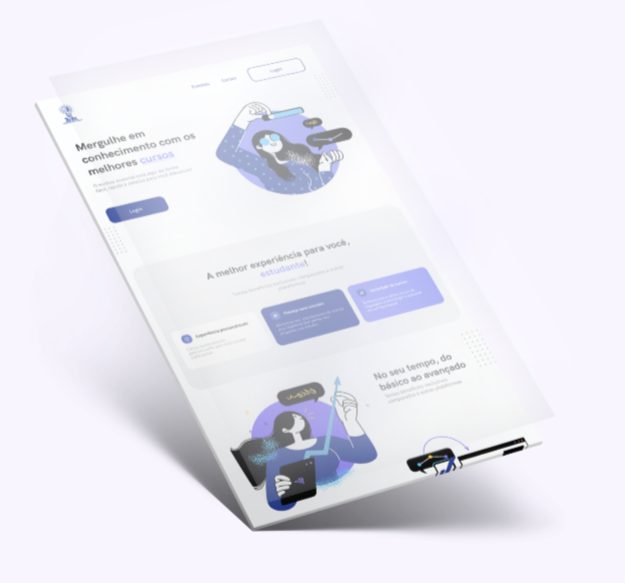
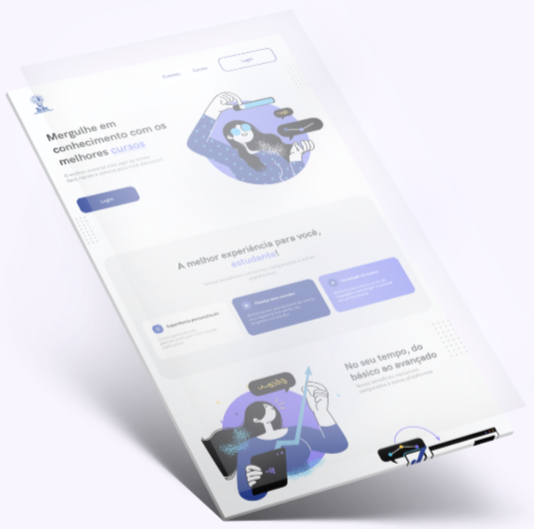
update

diff --git a/src/components/Features/LadingPage/guide/Guide.tsx b/src/components/Features/LadingPage/guide/Guide.tsx
@@ -12,7 +12,7 @@ const Guide = () => {
       <div className="flex-container">
         <div className="flex-item">
           <div className="icon">
-            <img src={images.icon} alt="" />
+            <img src={images.dispositivo} alt="" />
           </div>
           <h3>Personalização</h3>
           <p>
@@ -22,7 +22,7 @@ const Guide = () => {
         </div>
         <div className="flex-item">
           <div className="icon">
-            <img src={images.icon} alt="" />
+            <img src={images.tecnologia} alt="" />
           </div>
           <h3>Tecnologia</h3>
           <p>
@@ -32,14 +32,14 @@ const Guide = () => {
         </div>
         <div className="flex-item">
           <div className="icon">
-            <img src={images.icon} alt="" />
+            <img src={images.encriptacao} alt="" />
           </div>
           <h3>Segurança</h3>
           <p>Todos seus dados e conteúdos protegidos.</p>
         </div>
         <div className="flex-item">
           <div className="icon">
-            <img src={images.icon} alt="" />
+            <img src={images.ux} alt="" />
           </div>
           <h3>User Experience</h3>
           <p>
@@ -49,14 +49,14 @@ const Guide = () => {
         </div>
         <div className="flex-item">
           <div className="icon">
-            <img src={images.icon} alt="" />
+            <img src={images.relatorio} alt="" />
           </div>
           <h3>Relatórios</h3>
           <p>Plataformas estáveis para o sucesso do seu negócio.</p>
         </div>
         <div className="flex-item">
           <div className="icon">
-            <img src={images.icon} alt="" />
+            <img src={images.fone} alt="" />
           </div>
           <h3>Suporte</h3>
           <p>

diff --git a/src/assets/index.ts b/src/assets/index.ts
@@ -4,13 +4,14 @@ const images = {
   heroComputer: require("./images/computer-illustration.png"),
   icon: require("./images/130258.png"),
   servicesBanner: require("./images/services-img.png"),
-  check: require("./images/check.png"),
   platformImage: require("./images/platform-image.png"),
-  phone: require("./images/phone.png"),
   map: require("./images/map.png"),
-  insta: require("./images/instagram.svg"),
-  linkedin: require("./images/linkedin.svg"),
-  arroyDown: require("./images/linkedin.svg"),
+  dispositivo: require("./images/icons-guide/dispositivos.png"),
+  encriptacao: require("./images/icons-guide/encriptacao.png"),
+  tecnologia: require("./images/icons-guide/tecnologia.png"),
+  fone: require("./images/icons-guide/fones-de-ouvido.png"),
+  relatorio: require("./images/icons-guide/relatorio-de-negocios.png"),
+  ux: require("./images/icons-guide/ux.png"),
 };
 
 export default images;

diff --git a/src/components/Features/LadingPage/home/home.scss b/src/components/Features/LadingPage/home/home.scss
@@ -3,7 +3,7 @@
   background:
     linear-gradient(rgba(0,0,0,0.7), rgba(0,0,0,0.4)),
     url("../../../../assets/images/banner.jpg");
-  height: 100vh;
+  min-height: 100vh;
   background-size: cover;
   box-shadow: 10px #000;
   &::before {
@@ -15,7 +15,7 @@
     position: absolute;
     height: 60px;
     width: 60px;
-    top: calc(100vh - 30px);
+    top: calc(100% - 30px);
     left: calc((100vw - 60px) / 2);
     border-radius: 50%;
     background-color: rgb(253, 253, 253);

diff --git a/src/components/Features/LadingPage/platforms/platforms.scss b/src/components/Features/LadingPage/platforms/platforms.scss
@@ -4,11 +4,13 @@
   color: #363636;
   .list-items {
     display: flex;
+    justify-content: space-between;
 
     h2 {
       font-size: 2.25em;
       line-height: 1;
       padding: 30px 0;
+        min-width: 20ch;
     }
 
     h4 {
@@ -38,7 +40,7 @@
 
     .list-banner {
       .banner {
-        height: 100%;
+        width: 80%;
         object-fit: cover;
         object-position: top left;
       }

diff --git a/src/components/Features/LadingPage/header/header.scss b/src/components/Features/LadingPage/header/header.scss
@@ -82,9 +82,14 @@
   }
 
   @media screen and (max-width: 790px) {
-    .btn-mobile {
-      display: block;
+    .logo img {
+      width: 140px;
     }
+
+    .nav-items {
+    display: flex;
+    gap: 20px;
+  }
   }
 
   @media screen and (max-width: 600px) {
@@ -94,6 +99,10 @@
 
     .logo img {
       width: 150px;
+    }
+
+    .btn-mobile {
+      display: block;
     }
   }
 }

diff --git a/src/components/Features/LadingPage/hero/hero.scss b/src/components/Features/LadingPage/hero/hero.scss
@@ -2,7 +2,7 @@
   display: flex;
   color: aliceblue;
   justify-content: space-between;
-  padding-top: 191px;
+  padding: 191px 0 20px 0;
   position: relative;
 
   h2 {
